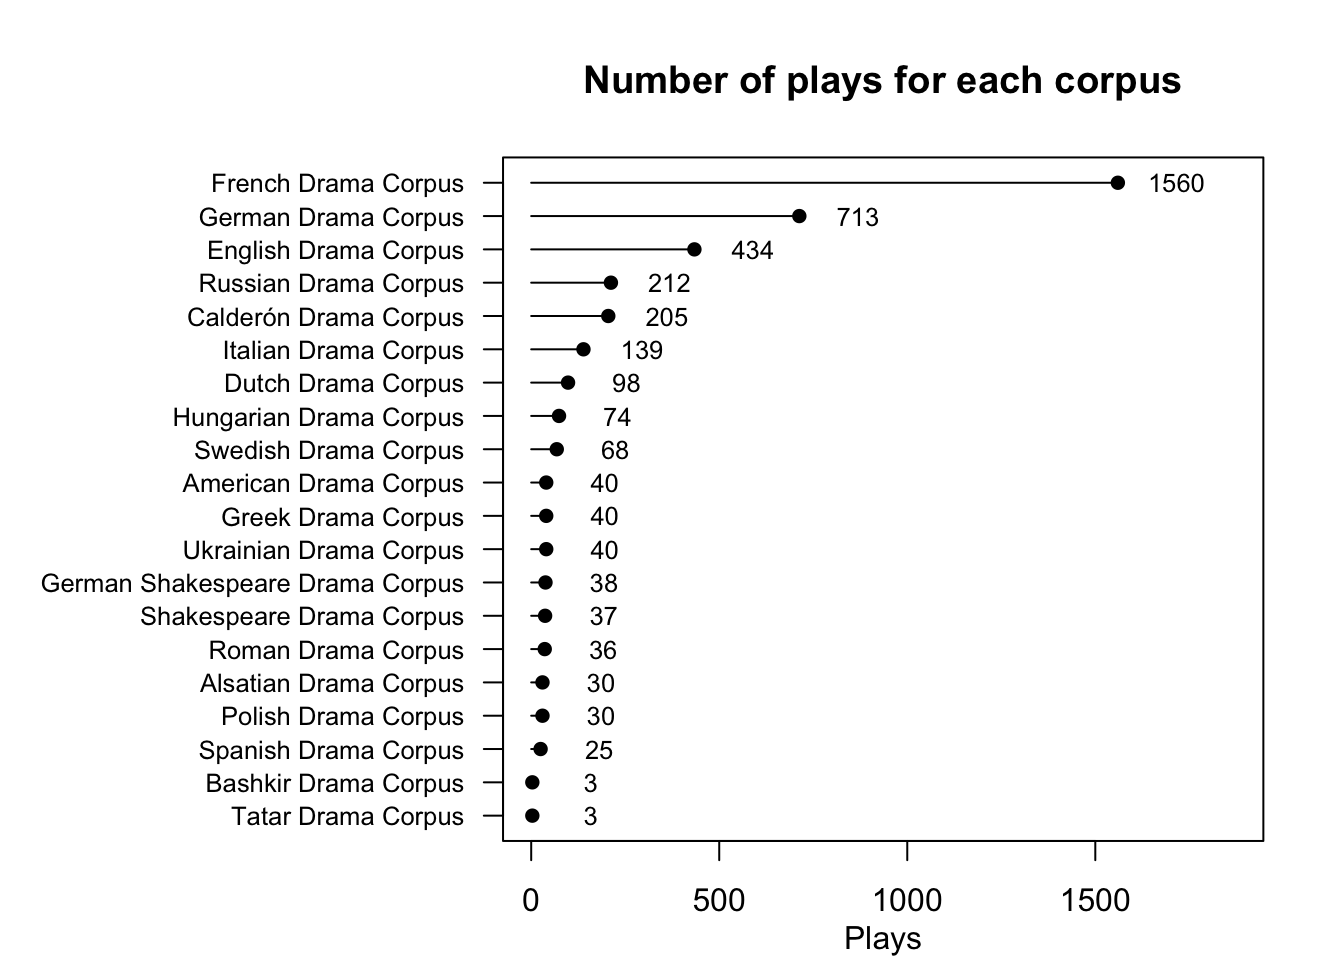
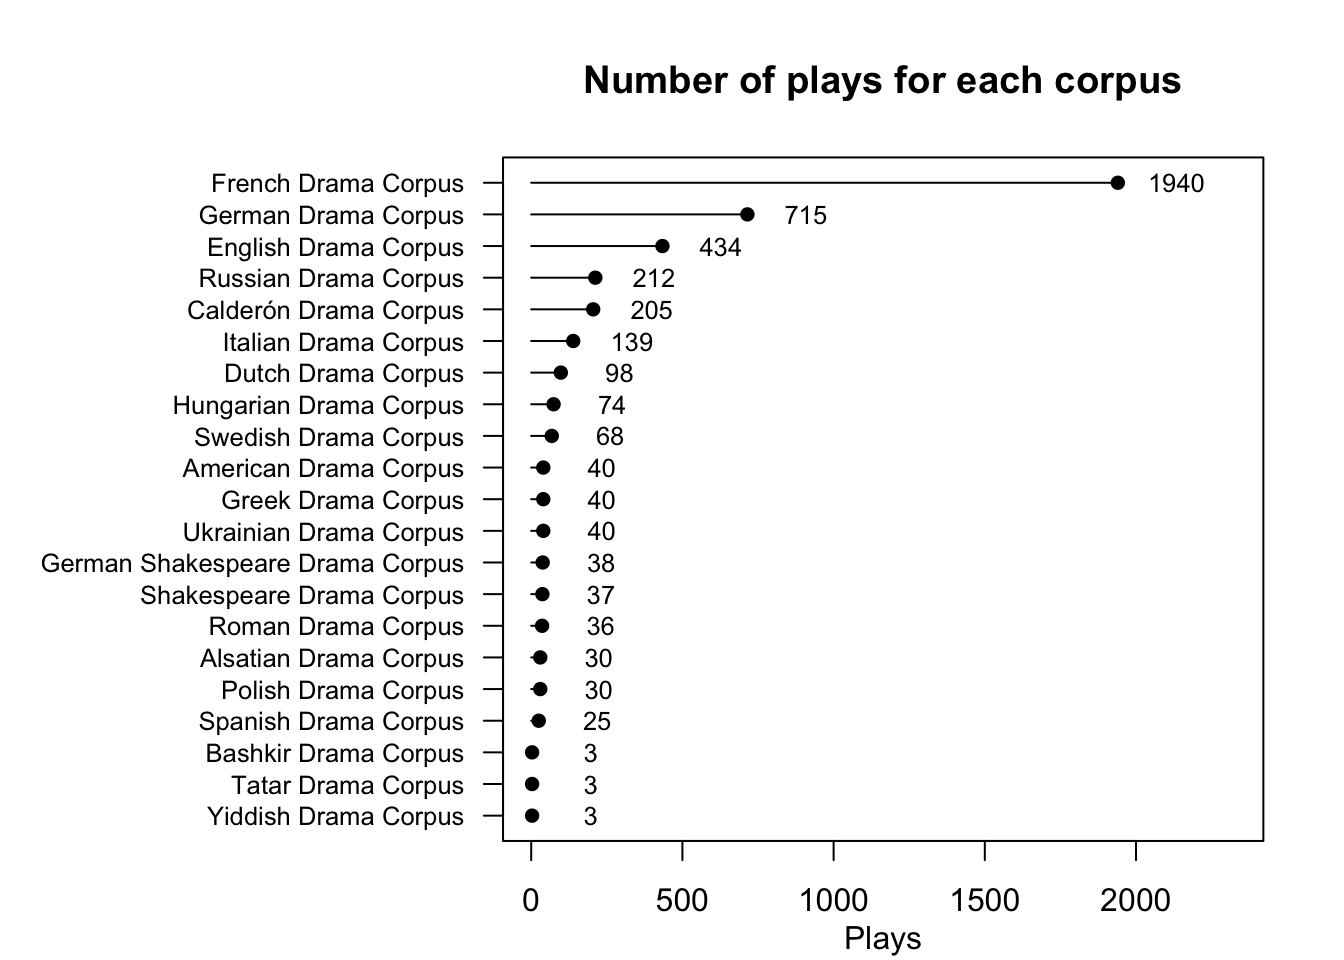
dracor.qmd upd

diff --git a/docs/dracor.html b/docs/dracor.html
@@ -2,12 +2,12 @@
 <html xmlns="http://www.w3.org/1999/xhtml" lang="ru" xml:lang="ru"><head>
 
 <meta charset="utf-8">
-<meta name="generator" content="quarto-1.4.553">
+<meta name="generator" content="quarto-1.5.57">
 
 <meta name="viewport" content="width=device-width, initial-scale=1.0, user-scalable=yes">
 
 
-<title>Компьютерный анализ текста - 20&nbsp; Анализ сетей и обнаружение сообществ</title>
+<title>20&nbsp; Анализ сетей и обнаружение сообществ – Компьютерный анализ текста</title>
 <style>
 code{white-space: pre-wrap;}
 span.smallcaps{font-variant: small-caps;}
@@ -33,7 +33,7 @@ div.sourceCode { overflow: auto; }
 }
 @media print {
 pre > code.sourceCode { white-space: pre-wrap; }
-pre > code.sourceCode > span { text-indent: -5em; padding-left: 5em; }
+pre > code.sourceCode > span { display: inline-block; text-indent: -5em; padding-left: 5em; }
 }
 pre.numberSource code
   { counter-reset: source-line 0; }
@@ -64,7 +64,7 @@ pre > code.sourceCode > span > a:first-child::before { text-decoration: underlin
 <script src="site_libs/quarto-search/fuse.min.js"></script>
 <script src="site_libs/quarto-search/quarto-search.js"></script>
 <meta name="quarto:offset" content="./">
-<link href="./references.html" rel="next">
+<link href="./maps.html" rel="next">
 <link href="./ggraph.html" rel="prev">
 <script src="site_libs/quarto-html/quarto.js"></script>
 <script src="site_libs/quarto-html/popper.min.js"></script>
@@ -105,7 +105,7 @@ pre > code.sourceCode > span > a:first-child::before { text-decoration: underlin
 <link href="site_libs/pagedtable-1.1/css/pagedtable.css" rel="stylesheet">
 <script src="site_libs/pagedtable-1.1/js/pagedtable.js"></script>
 
-  <script src="https://polyfill.io/v3/polyfill.min.js?features=es6"></script>
+  <script src="https://cdnjs.cloudflare.com/polyfill/v3/polyfill.min.js?features=es6"></script>
   <script src="https://cdn.jsdelivr.net/npm/mathjax@3/es5/tex-chtml-full.js" type="text/javascript"></script>
 
 <script type="text/javascript">
@@ -143,13 +143,13 @@ window.Quarto = {
   <header id="quarto-header" class="headroom fixed-top">
   <nav class="quarto-secondary-nav">
     <div class="container-fluid d-flex">
-      <button type="button" class="quarto-btn-toggle btn" data-bs-toggle="collapse" data-bs-target=".quarto-sidebar-collapse-item" aria-controls="quarto-sidebar" aria-expanded="false" aria-label="Переключить боковую панель навигации" onclick="if (window.quartoToggleHeadroom) { window.quartoToggleHeadroom(); }">
+      <button type="button" class="quarto-btn-toggle btn" data-bs-toggle="collapse" role="button" data-bs-target=".quarto-sidebar-collapse-item" aria-controls="quarto-sidebar" aria-expanded="false" aria-label="Переключить боковую панель навигации" onclick="if (window.quartoToggleHeadroom) { window.quartoToggleHeadroom(); }">
         <i class="bi bi-layout-text-sidebar-reverse"></i>
       </button>
         <nav class="quarto-page-breadcrumbs" aria-label="breadcrumb"><ol class="breadcrumb"><li class="breadcrumb-item"><a href="./dracor.html"><span class="chapter-number">20</span>&nbsp; <span class="chapter-title">Анализ сетей и обнаружение сообществ</span></a></li></ol></nav>
-        <a class="flex-grow-1" role="button" data-bs-toggle="collapse" data-bs-target=".quarto-sidebar-collapse-item" aria-controls="quarto-sidebar" aria-expanded="false" aria-label="Переключить боковую панель навигации" onclick="if (window.quartoToggleHeadroom) { window.quartoToggleHeadroom(); }">      
+        <a class="flex-grow-1" role="navigation" data-bs-toggle="collapse" data-bs-target=".quarto-sidebar-collapse-item" aria-controls="quarto-sidebar" aria-expanded="false" aria-label="Переключить боковую панель навигации" onclick="if (window.quartoToggleHeadroom) { window.quartoToggleHeadroom(); }">      
         </a>
-      <button type="button" class="btn quarto-search-button" aria-label="" onclick="window.quartoOpenSearch();">
+      <button type="button" class="btn quarto-search-button" aria-label="Поиск" onclick="window.quartoOpenSearch();">
         <i class="bi bi-search"></i>
       </button>
     </div>
@@ -204,7 +204,7 @@ window.Quarto = {
         <li class="sidebar-item">
   <div class="sidebar-item-container"> 
   <a href="./import.html" class="sidebar-item-text sidebar-link">
- <span class="menu-text"><span class="chapter-number">5</span>&nbsp; <span class="chapter-title">Импорт</span></span></a>
+ <span class="menu-text"><span class="chapter-number">5</span>&nbsp; <span class="chapter-title">Импорт: JSON &amp; XML</span></span></a>
   </div>
 </li>
         <li class="sidebar-item">
@@ -299,6 +299,24 @@ window.Quarto = {
 </li>
         <li class="sidebar-item">
   <div class="sidebar-item-container"> 
+  <a href="./maps.html" class="sidebar-item-text sidebar-link">
+ <span class="menu-text"><span class="chapter-number">21</span>&nbsp; <span class="chapter-title">Пространственные данные в R</span></span></a>
+  </div>
+</li>
+        <li class="sidebar-item">
+  <div class="sidebar-item-container"> 
+  <a href="./regression.html" class="sidebar-item-text sidebar-link">
+ <span class="menu-text"><span class="chapter-number">22</span>&nbsp; <span class="chapter-title">Регрессионный анализ</span></span></a>
+  </div>
+</li>
+        <li class="sidebar-item">
+  <div class="sidebar-item-container"> 
+  <a href="./multivar.html" class="sidebar-item-text sidebar-link">
+ <span class="menu-text"><span class="chapter-number">23</span>&nbsp; <span class="chapter-title">Регрессионные модели с <code>tidymodels</code></span></span></a>
+  </div>
+</li>
+        <li class="sidebar-item">
+  <div class="sidebar-item-container"> 
   <a href="./references.html" class="sidebar-item-text sidebar-link">
  <span class="menu-text">Литература</span></a>
   </div>
@@ -378,9 +396,9 @@ window.Quarto = {
 <span id="cb1-6"><a href="#cb1-6" aria-hidden="true" tabindex="-1"></a><span class="fu">get_dracor_meta</span>()  <span class="sc">|&gt;</span> </span>
 <span id="cb1-7"><a href="#cb1-7" aria-hidden="true" tabindex="-1"></a>  <span class="fu">summary</span>()</span></code><button title="Скопировать текст" class="code-copy-button"><i class="bi"></i></button></pre></div>
 <div class="cell-output cell-output-stdout">
-<pre><code>DraCor hosts 20 corpora comprising 3825 plays.
+<pre><code>DraCor hosts 21 corpora comprising 4210 plays.
 
-The last updated corpus was German Drama Corpus (2024-09-22 22:29:03.46).</code></pre>
+The last updated corpus was German Drama Corpus (2024-10-09 06:16:59.279).</code></pre>
 </div>
 </div>
 <p>Извлекаем метаданные.</p>
@@ -392,7 +410,7 @@ The last updated corpus was German Drama Corpus (2024-09-22 22:29:03.46).</code>
 <div class="cell-output-display">
 <div data-pagedtable="false">
   <script data-pagedtable-source="" type="application/json">
-{"columns":[{"label":["name"],"name":[1],"type":["chr"],"align":["left"]},{"label":["title"],"name":[2],"type":["chr"],"align":["left"]},{"label":["plays"],"name":[3],"type":["int"],"align":["right"]}],"data":[{"1":"fre","2":"French Drama Corpus","3":"1560"},{"1":"ger","2":"German Drama Corpus","3":"713"},{"1":"eng","2":"English Drama Corpus","3":"434"},{"1":"rus","2":"Russian Drama Corpus","3":"212"},{"1":"cal","2":"Calderón Drama Corpus","3":"205"},{"1":"ita","2":"Italian Drama Corpus","3":"139"},{"1":"dutch","2":"Dutch Drama Corpus","3":"98"},{"1":"hun","2":"Hungarian Drama Corpus","3":"74"},{"1":"swe","2":"Swedish Drama Corpus","3":"68"},{"1":"am","2":"American Drama Corpus","3":"40"},{"1":"greek","2":"Greek Drama Corpus","3":"40"},{"1":"u","2":"Ukrainian Drama Corpus","3":"40"},{"1":"gersh","2":"German Shakespeare Drama Corpus","3":"38"},{"1":"shake","2":"Shakespeare Drama Corpus","3":"37"},{"1":"rom","2":"Roman Drama Corpus","3":"36"},{"1":"als","2":"Alsatian Drama Corpus","3":"30"},{"1":"pol","2":"Polish Drama Corpus","3":"30"},{"1":"span","2":"Spanish Drama Corpus","3":"25"},{"1":"bash","2":"Bashkir Drama Corpus","3":"3"},{"1":"tat","2":"Tatar Drama Corpus","3":"3"}],"options":{"columns":{"min":{},"max":[10]},"rows":{"min":[10],"max":[10]},"pages":{}}}
+{"columns":[{"label":["name"],"name":[1],"type":["chr"],"align":["left"]},{"label":["title"],"name":[2],"type":["chr"],"align":["left"]},{"label":["plays"],"name":[3],"type":["int"],"align":["right"]}],"data":[{"1":"fre","2":"French Drama Corpus","3":"1940"},{"1":"ger","2":"German Drama Corpus","3":"715"},{"1":"eng","2":"English Drama Corpus","3":"434"},{"1":"rus","2":"Russian Drama Corpus","3":"212"},{"1":"cal","2":"Calderón Drama Corpus","3":"205"},{"1":"ita","2":"Italian Drama Corpus","3":"139"},{"1":"dutch","2":"Dutch Drama Corpus","3":"98"},{"1":"hun","2":"Hungarian Drama Corpus","3":"74"},{"1":"swe","2":"Swedish Drama Corpus","3":"68"},{"1":"am","2":"American Drama Corpus","3":"40"},{"1":"greek","2":"Greek Drama Corpus","3":"40"},{"1":"u","2":"Ukrainian Drama Corpus","3":"40"},{"1":"gersh","2":"German Shakespeare Drama Corpus","3":"38"},{"1":"shake","2":"Shakespeare Drama Corpus","3":"37"},{"1":"rom","2":"Roman Drama Corpus","3":"36"},{"1":"als","2":"Alsatian Drama Corpus","3":"30"},{"1":"pol","2":"Polish Drama Corpus","3":"30"},{"1":"span","2":"Spanish Drama Corpus","3":"25"},{"1":"bash","2":"Bashkir Drama Corpus","3":"3"},{"1":"tat","2":"Tatar Drama Corpus","3":"3"},{"1":"yi","2":"Yiddish Drama Corpus","3":"3"}],"options":{"columns":{"min":{},"max":[10]},"rows":{"min":[10],"max":[10]},"pages":{}}}
   </script>
 </div>
 </div>
@@ -467,12 +485,12 @@ Years of the first printing (range): 1747–1986</code></pre>
 <span id="cb10-2"><a href="#cb10-2" aria-hidden="true" tabindex="-1"></a></span>
 <span id="cb10-3"><a href="#cb10-3" aria-hidden="true" tabindex="-1"></a>godunov</span></code><button title="Скопировать текст" class="code-copy-button"><i class="bi"></i></button></pre></div>
 <div class="cell-output cell-output-stdout">
-<pre><code>IGRAPH 4340592 UNW- 79 327 -- 
+<pre><code>IGRAPH 3ca5aac UNW- 79 327 -- 
 + attr: name (v/c), isGroup (v/l), gender (v/c), numOfScenes (v/n),
 | numOfSpeechActs (v/n), numOfWords (v/n), degree (v/n), weightedDegree
 | (v/n), closeness (v/n), betweenness (v/n), eigenvector (v/n),
 | wikidataId (v/c), weight (e/n)
-+ edges from 4340592 (vertex names):
++ edges from 3ca5aac (vertex names):
 [1] Воротынский--Шуйский                   
 [2] Воротынский--Борис                     
 [3] Воротынский--Бояре                     
@@ -532,7 +550,7 @@ Years of the first printing (range): 1747–1986</code></pre>
 <div class="cell">
 <div class="sourceCode cell-code" id="cb15"><pre class="sourceCode r code-with-copy"><code class="sourceCode r"><span id="cb15-1"><a href="#cb15-1" aria-hidden="true" tabindex="-1"></a><span class="fu">E</span>(godunov)[weight <span class="sc">&gt;</span> <span class="dv">1</span>] </span></code><button title="Скопировать текст" class="code-copy-button"><i class="bi"></i></button></pre></div>
 <div class="cell-output cell-output-stdout">
-<pre><code>+ 9/327 edges from 4340592 (vertex names):
+<pre><code>+ 9/327 edges from 3ca5aac (vertex names):
 [1] Воротынский--Шуйский        Шуйский    --Борис         
 [3] Борис      --Бояре          Борис      --Феодор        
 [5] Борис      --Басманов       Григорий   --Гаврила Пушкин
@@ -636,7 +654,7 @@ Years of the first printing (range): 1747–1986</code></pre>
 <p><em>Центральность по близости</em> (closeness centrality) говорит о том, насколько близко узел расположен к другим узлам сети. Центральность по близости – это величина, обратная сумме расстояний от узла i до всех остальных узлов сети.</p>
 <p><span class="math display">\[\frac{1}{\sum_{i\neq v}d_{vi}}\]</span></p>
 <div class="callout-info" data-icon="false">
-<p>обратите внимание: в версии igraph 2.0.3 способ расчета closeness centrality <a href="https://cran.r-project.org/web/packages/igraph/news/news.html">изменился</a>, поэтому наши результаты будут немного отличаться от того, что хранится в атрибутах узлов).</p>
+<p>Обратите внимание: в Dracor все метрики <a href="https://zenodo.org/records/7664964#.ZGcV0S9Bz0o">рассчитывались</a> с использованием Python-пакета networkX. Имплементации расчетов сетевых метрик могут <a href="https://dlina.github.io/Subgraphs/">не совпадать</a>.</p>
 </div>
 <div class="cell">
 <div class="sourceCode cell-code" id="cb25"><pre class="sourceCode r code-with-copy"><code class="sourceCode r"><span id="cb25-1"><a href="#cb25-1" aria-hidden="true" tabindex="-1"></a>close_new <span class="ot">&lt;-</span> <span class="fu">closeness</span>(godunov, </span>
@@ -831,7 +849,7 @@ Assortativity: -0.06</code></pre>
 <div class="cell">
 <div class="sourceCode cell-code" id="cb38"><pre class="sourceCode r code-with-copy"><code class="sourceCode r"><span id="cb38-1"><a href="#cb38-1" aria-hidden="true" tabindex="-1"></a><span class="fu">articulation_points</span>(godunov)</span></code><button title="Скопировать текст" class="code-copy-button"><i class="bi"></i></button></pre></div>
 <div class="cell-output cell-output-stdout">
-<pre><code>+ 7/79 vertices, named, from 4340592:
+<pre><code>+ 7/79 vertices, named, from 3ca5aac:
 [1] Народ          Патриарх       Григорий       Марина         Гаврила Пушкин
 [6] Борис          Шуйский       </code></pre>
 </div>
@@ -840,7 +858,7 @@ Assortativity: -0.06</code></pre>
 <div class="cell">
 <div class="sourceCode cell-code" id="cb40"><pre class="sourceCode r code-with-copy"><code class="sourceCode r"><span id="cb40-1"><a href="#cb40-1" aria-hidden="true" tabindex="-1"></a><span class="fu">V</span>(godunov)[betweenness <span class="sc">&gt;</span> <span class="fl">0.025</span>]</span></code><button title="Скопировать текст" class="code-copy-button"><i class="bi"></i></button></pre></div>
 <div class="cell-output cell-output-stdout">
-<pre><code>+ 10/79 vertices, named, from 4340592:
+<pre><code>+ 10/79 vertices, named, from 3ca5aac:
  [1] Шуйский        Народ          Борис          Бояре          Григорий      
  [6] Патриарх       Феодор         Гаврила Пушкин Марина         Басманов      </code></pre>
 </div>
@@ -861,19 +879,19 @@ Assortativity: -0.06</code></pre>
 <div class="sourceCode cell-code" id="cb44"><pre class="sourceCode r code-with-copy"><code class="sourceCode r"><span id="cb44-1"><a href="#cb44-1" aria-hidden="true" tabindex="-1"></a><span class="fu">cliques</span>(godunov, <span class="at">min=</span><span class="dv">11</span>)</span></code><button title="Скопировать текст" class="code-copy-button"><i class="bi"></i></button></pre></div>
 <div class="cell-output cell-output-stdout">
 <pre><code>[[1]]
-+ 11/79 vertices, named, from 4340592:
++ 11/79 vertices, named, from 3ca5aac:
  [1] Народ                   Ксения                  Феодор                 
  [4] Нищий                   Стража                  Один из народа (Кремль)
  [7] Другой (Кремль)         Один из народа (Кремль) Другой (Кремль)        
 [10] Третий (Кремль)         Мосальский             
 
 [[2]]
-+ 11/79 vertices, named, from 4340592:
++ 11/79 vertices, named, from 3ca5aac:
  [1] Борис     Бояре     Феодор    Басманов  Боярин    Один      Другой   
  [8] Третий    Четвертый Пятый     Шестой   
 
 [[3]]
-+ 11/79 vertices, named, from 4340592:
++ 11/79 vertices, named, from 3ca5aac:
  [1] Народ                                          
  [2] Борис                                          
  [3] Бояре                                          
@@ -1158,18 +1176,7 @@ window.document.addEventListener("DOMContentLoaded", function (event) {
     }
     return false;
   }
-  const clipboard = new window.ClipboardJS('.code-copy-button', {
-    text: function(trigger) {
-      const codeEl = trigger.previousElementSibling.cloneNode(true);
-      for (const childEl of codeEl.children) {
-        if (isCodeAnnotation(childEl)) {
-          childEl.remove();
-        }
-      }
-      return codeEl.innerText;
-    }
-  });
-  clipboard.on('success', function(e) {
+  const onCopySuccess = function(e) {
     // button target
     const button = e.trigger;
     // don't keep focus
@@ -1201,7 +1208,29 @@ window.document.addEventListener("DOMContentLoaded", function (event) {
     }, 1000);
     // clear code selection
     e.clearSelection();
+  }
+  const getTextToCopy = function(trigger) {
+      const codeEl = trigger.previousElementSibling.cloneNode(true);
+      for (const childEl of codeEl.children) {
+        if (isCodeAnnotation(childEl)) {
+          childEl.remove();
+        }
+      }
+      return codeEl.innerText;
+  }
+  const clipboard = new window.ClipboardJS('.code-copy-button:not([data-in-quarto-modal])', {
+    text: getTextToCopy
   });
+  clipboard.on('success', onCopySuccess);
+  if (window.document.getElementById('quarto-embedded-source-code-modal')) {
+    // For code content inside modals, clipBoardJS needs to be initialized with a container option
+    // TODO: Check when it could be a function (https://github.com/zenorocha/clipboard.js/issues/860)
+    const clipboardModal = new window.ClipboardJS('.code-copy-button[data-in-quarto-modal]', {
+      text: getTextToCopy,
+      container: window.document.getElementById('quarto-embedded-source-code-modal')
+    });
+    clipboardModal.on('success', onCopySuccess);
+  }
     var localhostRegex = new RegExp(/^(?:http|https):\/\/localhost\:?[0-9]*\//);
     var mailtoRegex = new RegExp(/^mailto:/);
       var filterRegex = new RegExp('/' + window.location.host + '/');
@@ -1209,7 +1238,7 @@ window.document.addEventListener("DOMContentLoaded", function (event) {
         return filterRegex.test(href) || localhostRegex.test(href) || mailtoRegex.test(href);
     }
     // Inspect non-navigation links and adorn them if external
- 	var links = window.document.querySelectorAll('a[href]:not(.nav-link):not(.navbar-brand):not(.toc-action):not(.sidebar-link):not(.sidebar-item-toggle):not(.pagination-link):not(.no-external):not([aria-hidden]):not(.dropdown-item):not(.quarto-navigation-tool)');
+ 	var links = window.document.querySelectorAll('a[href]:not(.nav-link):not(.navbar-brand):not(.toc-action):not(.sidebar-link):not(.sidebar-item-toggle):not(.pagination-link):not(.no-external):not([aria-hidden]):not(.dropdown-item):not(.quarto-navigation-tool):not(.about-link)');
     for (var i=0; i<links.length; i++) {
       const link = links[i];
       if (!isInternal(link.href)) {
@@ -1539,8 +1568,8 @@ window.document.addEventListener("DOMContentLoaded", function (event) {
       </a>          
   </div>
   <div class="nav-page nav-page-next">
-      <a href="./references.html" class="pagination-link" aria-label="Литература">
-        <span class="nav-page-text">Литература</span> <i class="bi bi-arrow-right-short"></i>
+      <a href="./maps.html" class="pagination-link" aria-label="Пространственные данные в R">
+        <span class="nav-page-text"><span class="chapter-number">21</span>&nbsp; <span class="chapter-title">Пространственные данные в R</span></span> <i class="bi bi-arrow-right-short"></i>
       </a>
   </div>
 </nav>
